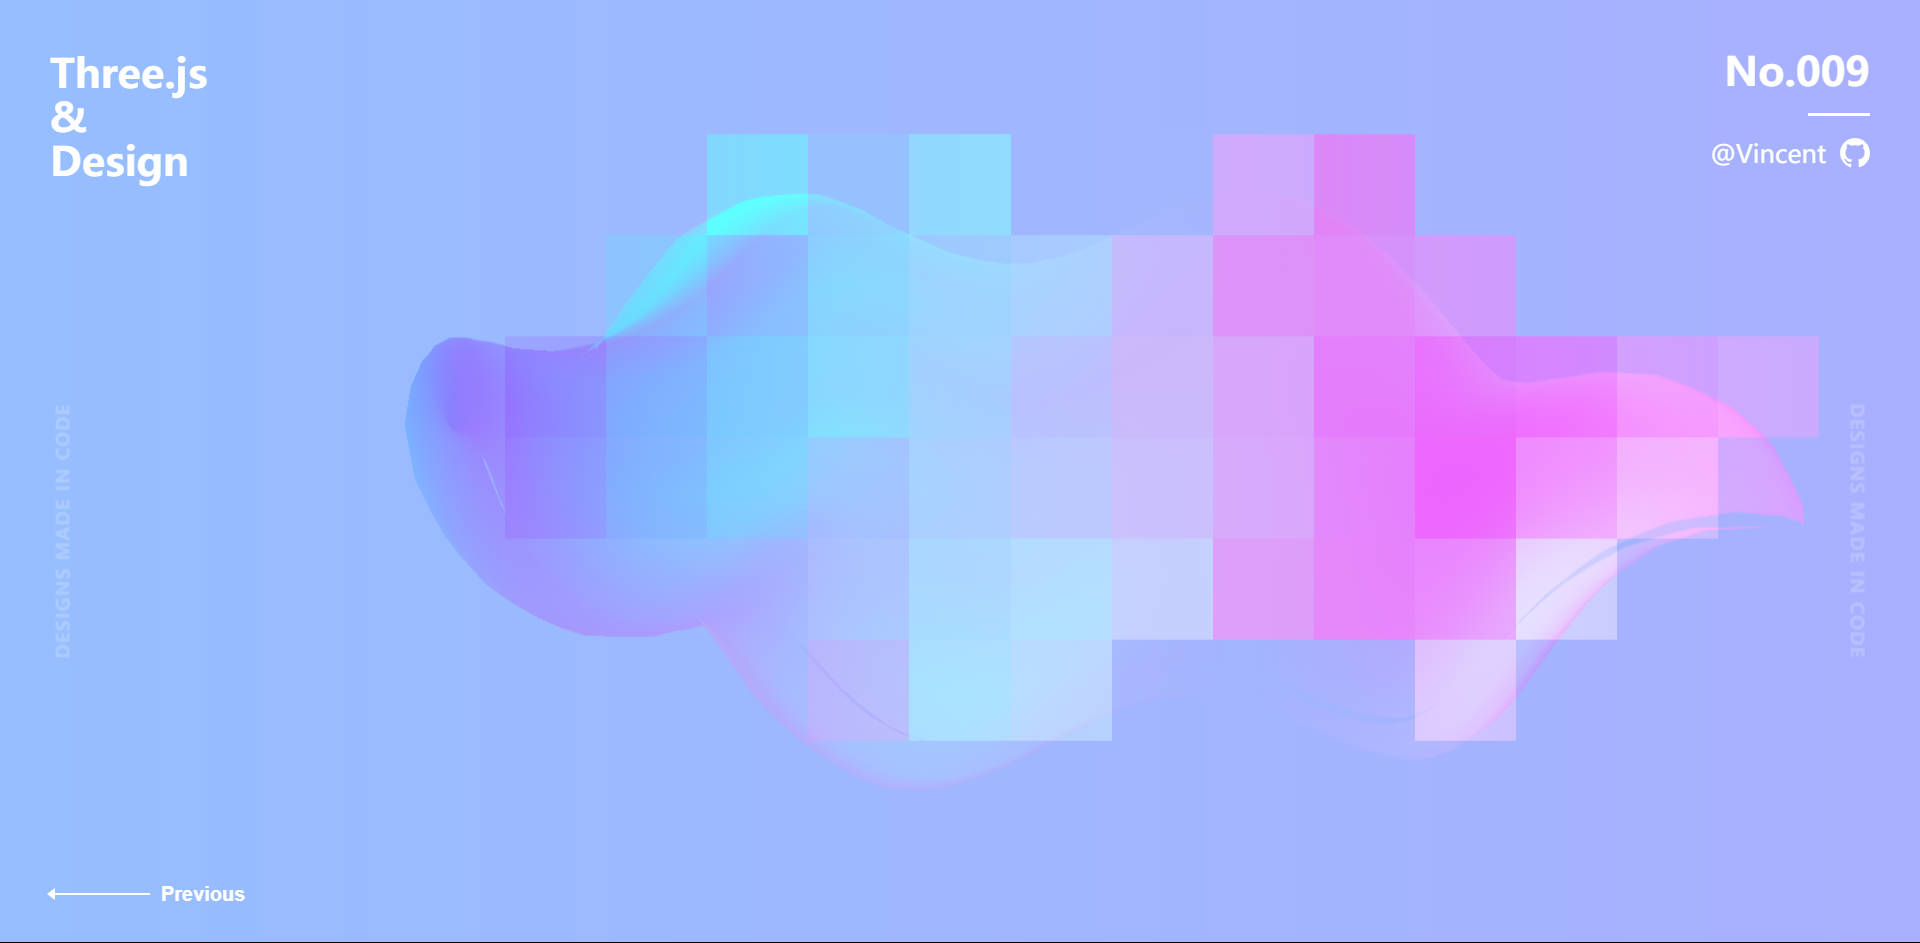
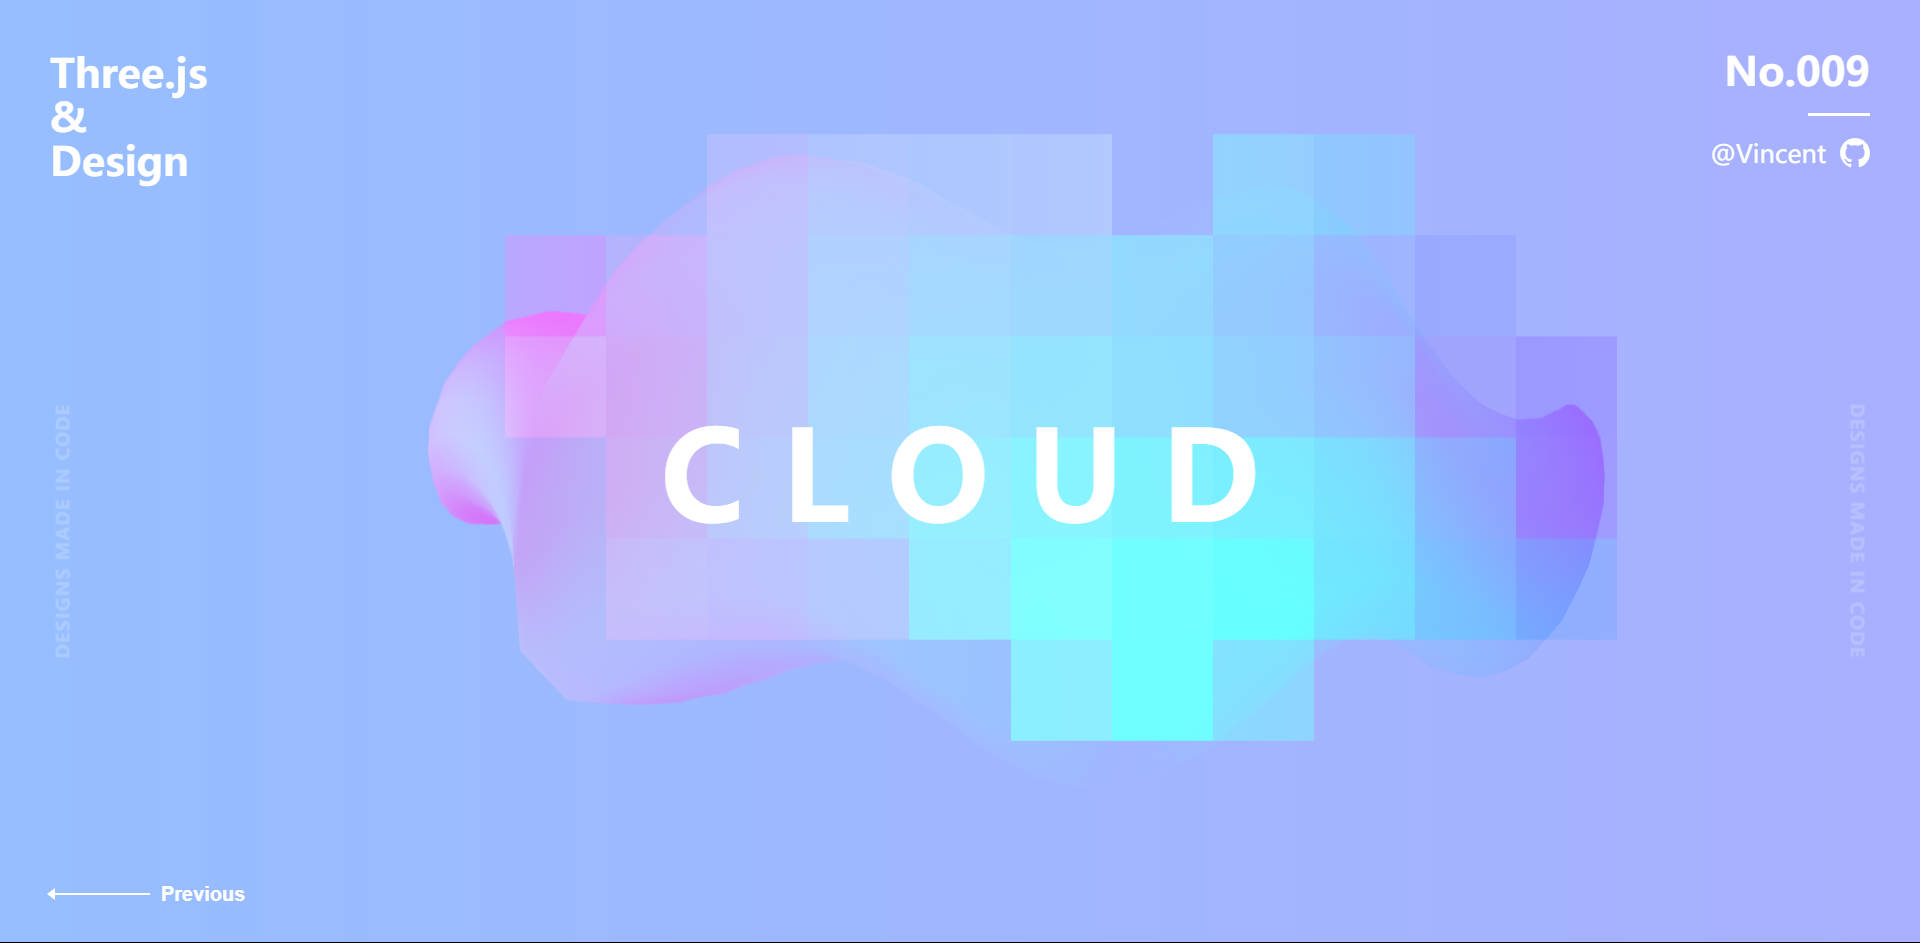
feat: 暂时隐藏mesh裂开部分

diff --git a/design/src/views/no009/index.ts b/design/src/views/no009/index.ts
@@ -9,6 +9,7 @@ import {
   ShaderMaterial,
   SphereGeometry,
   Vector2,
+  Vector3,
   WebGLRenderer,
 } from 'three'
 
@@ -45,12 +46,13 @@ function init() {
   scene = new Scene()
 
   // Canera
-  camera = new PerspectiveCamera(60, W / H, 0.1, 1000)
+  camera = new PerspectiveCamera(60, W / H, 0.01, 1000)
   camera.position.z = 180
   camera.lookAt(scene.position)
 
   // Object
   createMesh()
+  createWords()
 
   // Renderer
   const canvas = document.querySelector('canvas#webgl')!
@@ -85,22 +87,21 @@ function createMesh() {
   const geometryRows = 6
   const geometryCols = 64
 
-  // FIXME: 有问题，mesh 裂了
-  const positionAttribute = geometry.attributes.position as BufferAttribute
-  const positionsArray = positionAttribute.array as Array<number>
-  for (let i = 0; i < positionsArray.length; i += 3) {
+  const positions = (geometry.attributes.position as BufferAttribute).array as Array<number>
+  for (let i = 0; i < positions.length; i += 3) {
     const currentRow = Math.floor(i / 3 / geometryRows)
     const currentCol = (i / 3) % geometryCols
     const radLength = (Math.PI * 2) / geometryCols
     const angle = radLength * currentRow + Math.PI * 2 * currentCol
 
-    const dz = radius * Math.cos(angle)
     const dx = radius * Math.sin(angle)
-    const dy = currentRow / 1.2
+    // const dy = currentRow / 1.2
+    const dz = radius * Math.cos(angle)
 
-    positionsArray[i + 2] += dz
-    positionsArray[i] += dx
-    positionsArray[i + 1] = -positionsArray[i + 1] - 100 + dy
+    positions[i] += dx
+    positions[i + 1] = positions[i + 1] * 2
+    // positions[i + 1] = -positions[i + 1] - 100 + dy
+    positions[i + 2] += dz
   }
 
   material = new ShaderMaterial({
@@ -114,6 +115,7 @@ function createMesh() {
     },
     vertexShader: meshVertexShader,
     fragmentShader: meshFragmentShader,
+    // wireframe: true
   })
   material.onBeforeCompile = (shader) => {
     shader.vertexShader = shader.vertexShader
@@ -124,8 +126,25 @@ function createMesh() {
   }
 
   const mesh = new Mesh(geometry, material)
+  mesh.rotation.x = Math.PI / 2
   mesh.rotation.z = Math.PI / 2
   scene.add(mesh)
+}
+
+function createWords() {
+  const template = document.createElement('h1')
+  template.setAttribute('style', `
+    position: absolute;
+    top: 50%;
+    left: 50%;
+    transform: translate(-50%, -50%);
+    z-index: 50;
+    user-select: none;
+    margin: 0;
+    font-size: 100px;
+  `)
+  template.innerHTML = 'C L O U D'
+  document.body.appendChild(template)
 }
 
 function createComposer() {
@@ -227,6 +246,7 @@ function updateView() {
 }
 
 function render() {
+  // renderer.render(scene, camera)
   composer.render()
 }
 
